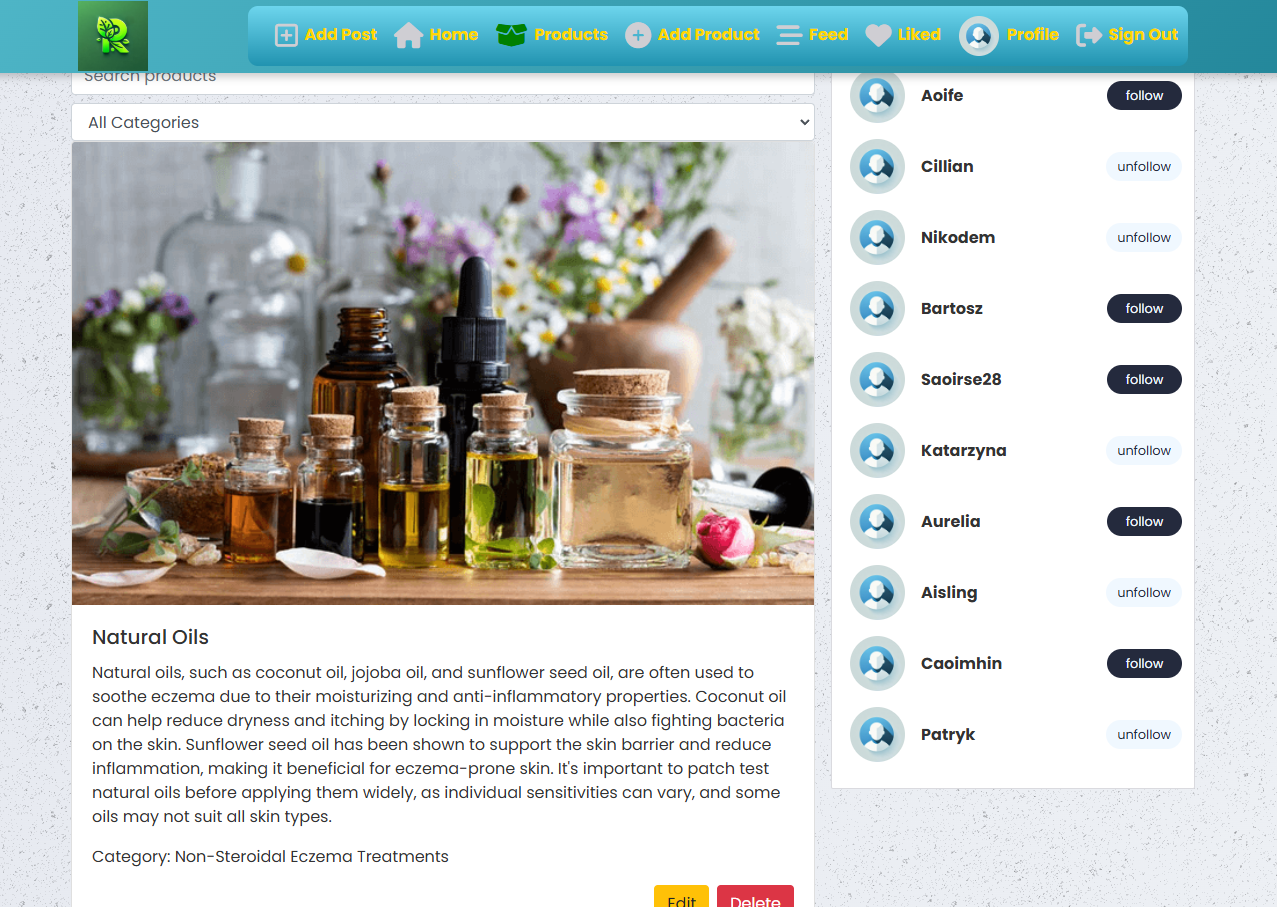
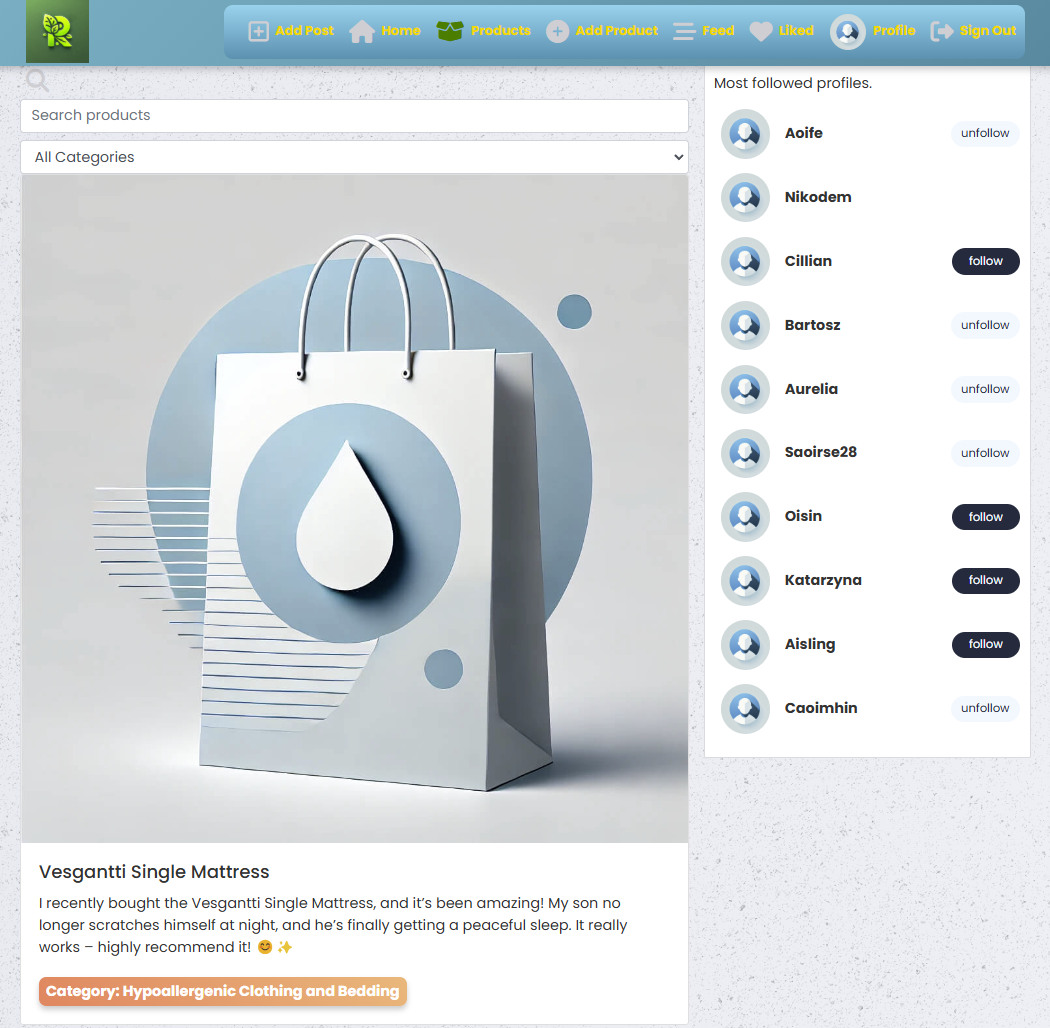
add styles to product category

diff --git a/src/pages/posts/PostsPage.js b/src/pages/posts/PostsPage.js
@@ -24,7 +24,7 @@ function PostsPage({ message, filter = "" }) {
   const [hasLoaded, setHasLoaded] = useState(false);
   const { pathname } = useLocation();
   const [query, setQuery] = useState("");
-  const [category, setCategory] = useState(""); // Nowe pole dla kategorii
+  const [category, setCategory] = useState("");
 
   const currentUser = useCurrentUser();
 
@@ -32,7 +32,7 @@ function PostsPage({ message, filter = "" }) {
     const fetchPosts = async () => {
       try {
         const { data } = await axiosReq.get(
-          `/posts/?${filter}search=${query}&category=${category}` // Dodano kategorię do żądania
+          `/posts/?${filter}search=${query}&category=${category}`
         );
         setPosts(data);
         setHasLoaded(true);
@@ -49,14 +49,14 @@ function PostsPage({ message, filter = "" }) {
     return () => {
       clearTimeout(timer);
     };
-  }, [filter, query, category, pathname, currentUser]); // Dodano category jako zależność
+  }, [filter, query, category, pathname, currentUser]);
 
   const handleSearchChange = (event) => {
     setQuery(event.target.value);
   };
 
   const handleCategoryChange = (event) => {
-    setCategory(event.target.value); // Ustawienie kategorii
+    setCategory(event.target.value);
   };
 
   const noPostsMessage = message || "No posts found.";
@@ -83,7 +83,7 @@ function PostsPage({ message, filter = "" }) {
           <Form.Control
             as="select"
             value={category}
-            onChange={handleCategoryChange} // Obsługa zmiany kategorii
+            onChange={handleCategoryChange}
           >
             <option value="">All Categories</option>
             <option value="general">General</option>

diff --git a/src/pages/products/Product.js b/src/pages/products/Product.js
@@ -4,6 +4,7 @@ import Button from "react-bootstrap/Button";
 import { useHistory } from "react-router-dom";
 import { useCurrentUser } from "../../contexts/CurrentUserContext";
 import { axiosRes } from "../../api/axiosDefaults";
+import styles from "../../styles/Product.module.css"; // Import the styles
 
 const Product = ({ id, owner, name, description, image, category_name, setProducts }) => {
   const history = useHistory();
@@ -29,10 +30,20 @@ const Product = ({ id, owner, name, description, image, category_name, setProduc
       <Card.Body>
         <Card.Title>{name}</Card.Title>
         <Card.Text>{description}</Card.Text>
-        {category_name && <Card.Text>Category: {category_name}</Card.Text>}
+        {category_name && (
+          <Card.Text>
+            <span className={styles.Category}>
+              Category: {category_name.charAt(0).toUpperCase() + category_name.slice(1)}
+            </span>
+          </Card.Text>
+        )}
         {isOwner && (
           <div className="d-flex justify-content-end">
-            <Button variant="warning" onClick={() => history.push(`/products/${id}/edit`)} className="mr-2">
+            <Button
+              variant="warning"
+              onClick={() => history.push(`/products/${id}/edit`)}
+              className="mr-2"
+            >
               Edit
             </Button>
             <Button variant="danger" onClick={handleDelete}>

diff --git a/src/pages/products/ProductPage.js b/src/pages/products/ProductPage.js
@@ -7,6 +7,7 @@ import Card from "react-bootstrap/Card";
 import Alert from "react-bootstrap/Alert";
 import { useCurrentUser } from "../../contexts/CurrentUserContext";
 import styles from "../../styles/ProductPage.module.css";
+import sharedStyles from "../../styles/Product.module.css"; // Import shared styles
 
 function ProductPage() {
   const { id } = useParams();
@@ -56,8 +57,10 @@ function ProductPage() {
             <Card.Title>{product.name}</Card.Title>
             <Card.Text>{product.description}</Card.Text>
             {product.category_name && (
-              <Card.Text className="text-muted">
-                Category: {product.category_name}
+              <Card.Text>
+                <span className={sharedStyles.Category}>
+                  Category: {product.category_name.charAt(0).toUpperCase() + product.category_name.slice(1)}
+                </span>
               </Card.Text>
             )}
             {isOwner && (

diff --git a/src/styles/Product.module.css b/src/styles/Product.module.css
@@ -1,0 +1,16 @@
+.Category {
+    font-weight: bold;
+    color: white;
+    background: linear-gradient(45deg, #ff7e5f, #feb47b); /* Gradient */
+    padding: 4px 8px; /* Dodaj przestrzeń wewnętrzną */
+    border-radius: 8px; /* Zaokrąglenie krawędzi */
+    display: inline-block; /* Umożliwia lepsze rozmieszczenie */
+    box-shadow: 0 4px 6px rgba(0, 0, 0, 0.2); /* Cień dla "wow efektu" */
+    margin-top: 5px; /* Odstęp od innych elementów */
+  }
+  
+  .Category:hover {
+    background: linear-gradient(45deg, #feb47b, #ff7e5f); /* Efekt hover */
+    transform: scale(1.05); /* Powiększenie przy najechaniu */
+    transition: all 0.3s ease-in-out; /* Płynne przejście */
+  }

diff --git a/README.md b/README.md
@@ -280,18 +280,28 @@ This section enhances engagement by allowing users to categorize their contribut
 ![Comment](documentation/comment.png)
 
 
-### 🖼 Products Page
-This screenshot displays the **Products Page** of the Remeskin platform, where users can explore recommended skincare and allergy-related products.
+### 🖼 Product Page Example
+This screenshot displays an example from the **Product Page** of the Remeskin platform, where users can explore recommended products shared by the community.
 
-- **Search Bar**: Located at the top, allowing users to search for specific products by name.
-- **Category Dropdown**: A dropdown menu to filter products by category, helping users quickly find relevant recommendations.
+- **Search and Filter**:
+  - **Search Bar**: Located at the top, allowing users to search for specific products.
+  - **Category Filter**: Below the search bar, providing a dropdown menu to filter products by categories.
+
 - **Product Section**:
-  - Displays a product titled **"Natural Oils"** with an accompanying description explaining its benefits and usage.
-  - Includes an image of the product (e.g., bottles of oils) to provide a visual representation.
-  - Shows the assigned category: **Non-Steroidal Eczema Treatments**.
-  - **Edit** and **Delete** buttons are visible for the owner of the product, allowing them to update or remove the product listing.
+  - **Product Title**: The featured product is **"Vesgantti Single Mattress"**.
+  - **Product Content**:
+    - A testimonial from the user highlights the product's effectiveness in improving comfort and sleep quality for their child with sensitive skin. The description emphasizes the product's ability to reduce scratching and promote peaceful sleep.
+    - The **category label** ("Hypoallergenic Clothing and Bedding") is prominently displayed below the description for clarity.
+  - **Default Product Image**:
+    - The image shown is the default product representation, designed by the author and generated using AI tools, maintaining a clean and professional aesthetic.
 
-This page provides a user-friendly interface to browse, manage, and share products beneficial for individuals with skin issues and allergies.
+- **Most Followed Profiles**:
+  - Displayed on the right side, showcasing a list of the most followed profiles on the platform. Each profile includes:
+    - **Username** and profile picture.
+    - A **follow/unfollow button** to manage connections.
+
+This page provides users with a well-organized and user-friendly interface to explore and share product recommendations for skin and allergy-related challenges.
+
 
 ![Products Page](documentation/product.png)
 
